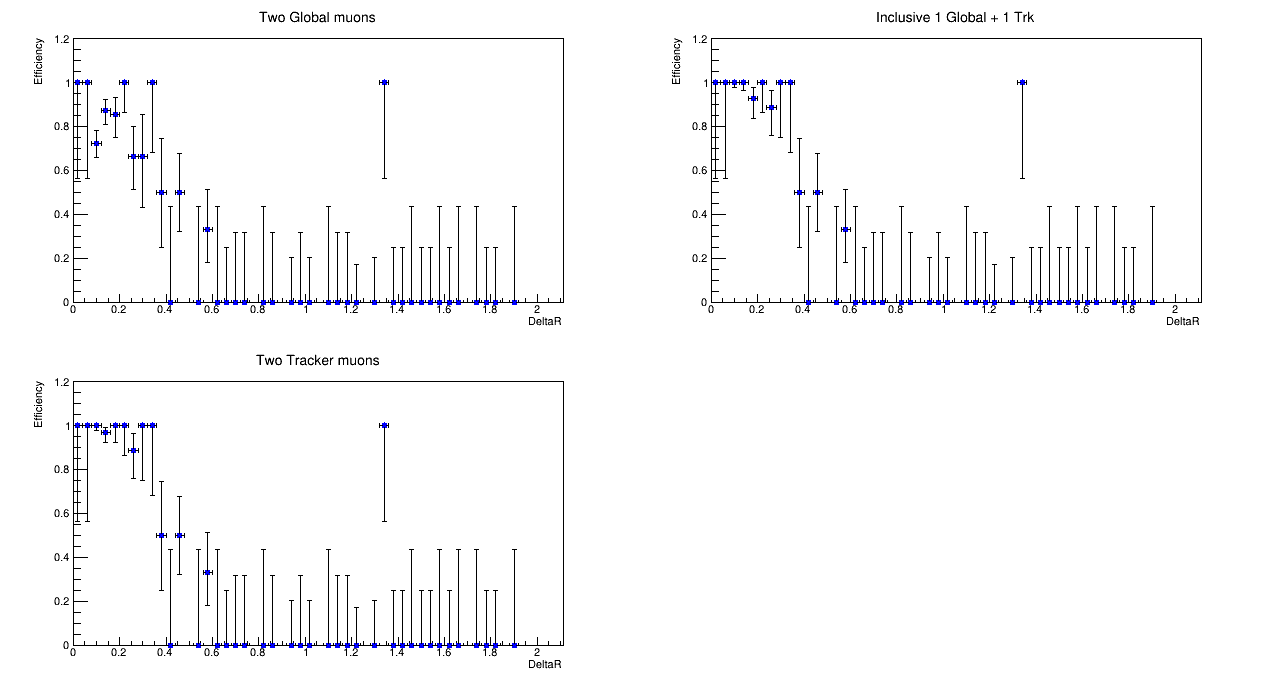
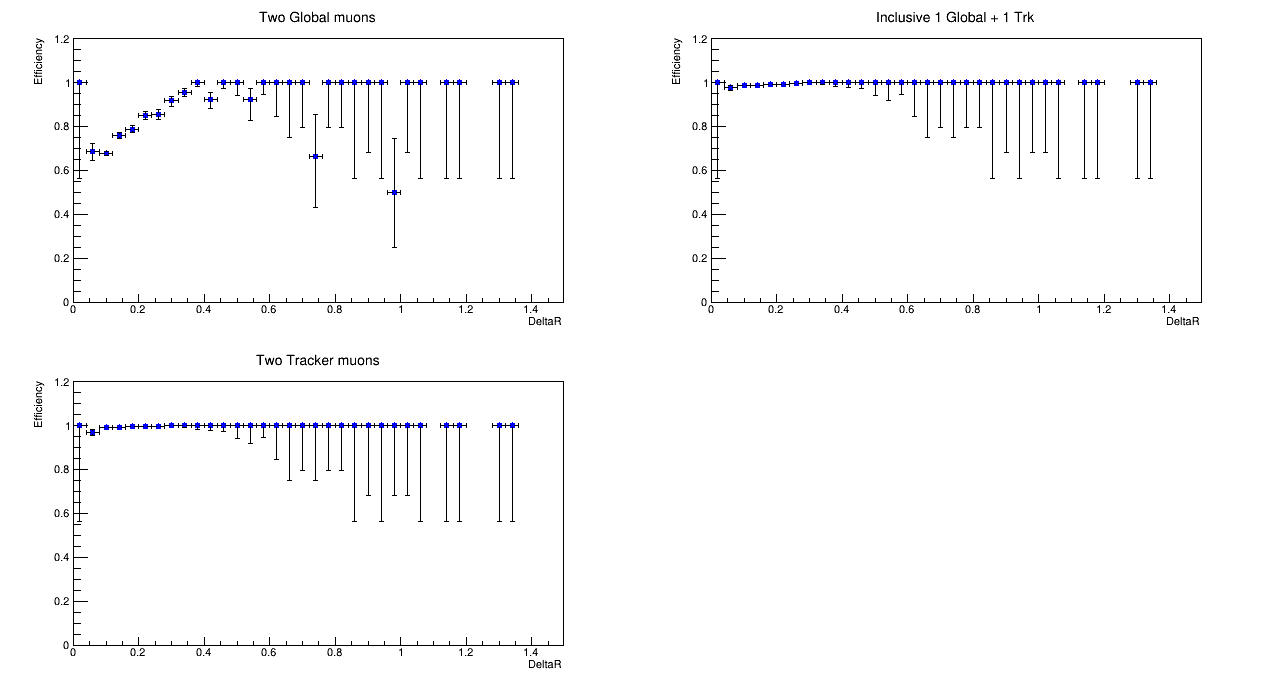
xzh

diff --git a/delpanjTuple_analyzer/13TEV/reconstructEff13TeV.C b/delpanjTuple_analyzer/13TEV/reconstructEff13TeV.C
@@ -74,15 +74,13 @@ void reconstructEff13TeV(){
 
     if( genMuIndex[0][0] < 0 || genMuIndex[0][1] < 0 ) continue;
 
+    Int_t npair = (genMuIndex[1][0] >= 0 && genMuIndex[1][1] >= 0) ? 2 : 1;
     
     TLorentzVector genMuon[2][2] = {{TLorentzVector(0,0,0,0),TLorentzVector(0,0,0,0)},
 				    {TLorentzVector(0,0,0,0),TLorentzVector(0,0,0,0)}};
 
     for(Int_t i = 0; i < 2; i++){
       for(Int_t j = 0; j < 2; j++){
-
-	if( genMuIndex[1][0] < 0 && genMuIndex[1][1] < 0 )
-	  break;
 
 	genMuon[i][j].SetPtEtaPhiM(genParPt[genMuIndex[i][j]], 
 				   genParEta[genMuIndex[i][j]], 
@@ -95,15 +93,10 @@ void reconstructEff13TeV(){
 
     Double_t gendR[2];
 
-    for(Int_t i = 0; i < 2; i++){
+    for(Int_t gm = 0; gm < npair; gm++){
 
-
-      if( genMuIndex[1][0] < 0 && genMuIndex[1][1] < 0 )
-	break;
-
-
-      gendR[i] = genMuon[i][0].DeltaR(genMuon[i][1]);
-      h_DeltaR[0]->Fill(gendR[i]);
+      gendR[gm] = genMuon[gm][0].DeltaR(genMuon[gm][1]);
+      h_DeltaR[0]->Fill(gendR[gm]);
 
     }
 
@@ -122,10 +115,7 @@ void reconstructEff13TeV(){
     Double_t dRMin = 0.1;
     Bool_t findPair[2][3] = {{},{false, false, false}}; //gg,gt,tt
 
-    for(Int_t gm = 0; gm < 2; gm++){ // genmu for loop
-
-      if( genMuIndex[1][0] < 0 && genMuIndex[1][1] < 0 )
-	break;
+    for(Int_t gm = 0; gm < npair; gm++){ // genmu for loop
 
       for(Int_t i = 0; i < nMu; i++){ // i for loop
 
@@ -181,7 +171,7 @@ void reconstructEff13TeV(){
 
     // Fill histogram with 3 cases
     
-    for(Int_t gm = 0; gm < 2; gm++){
+    for(Int_t gm = 0; gm < npair; gm++){
       for(Int_t i = 0; i < 3; i++){
 
 	if(findPair[gm][i]) h_DeltaR[i+1]->Fill(gendR[gm]);
